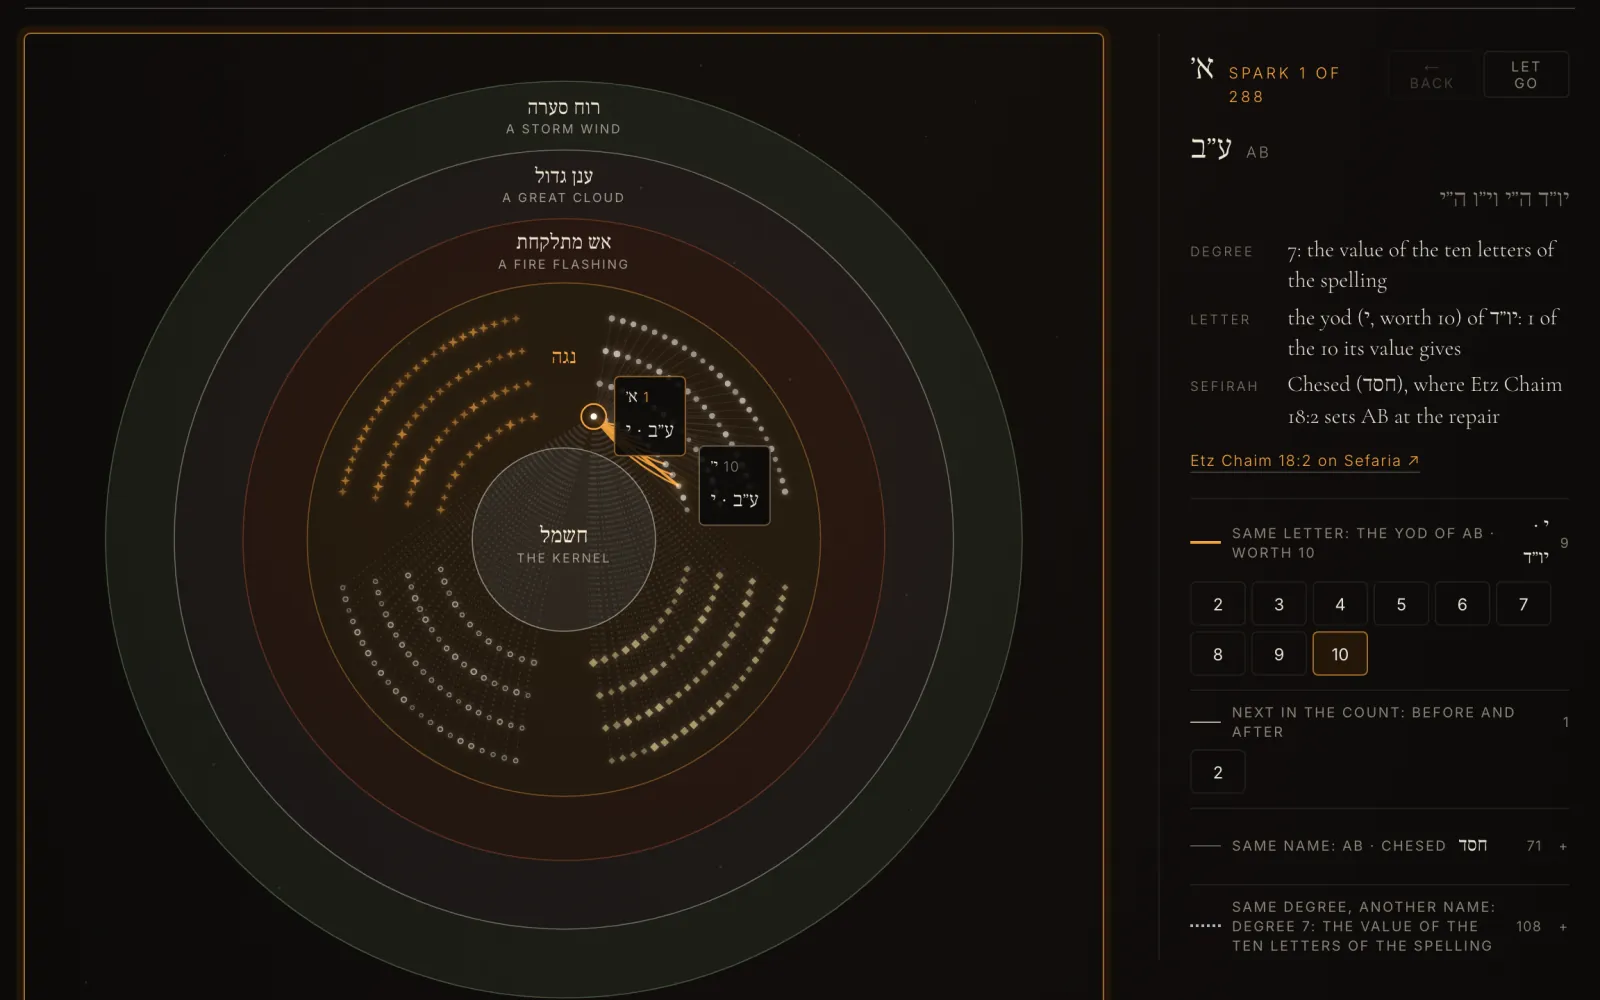
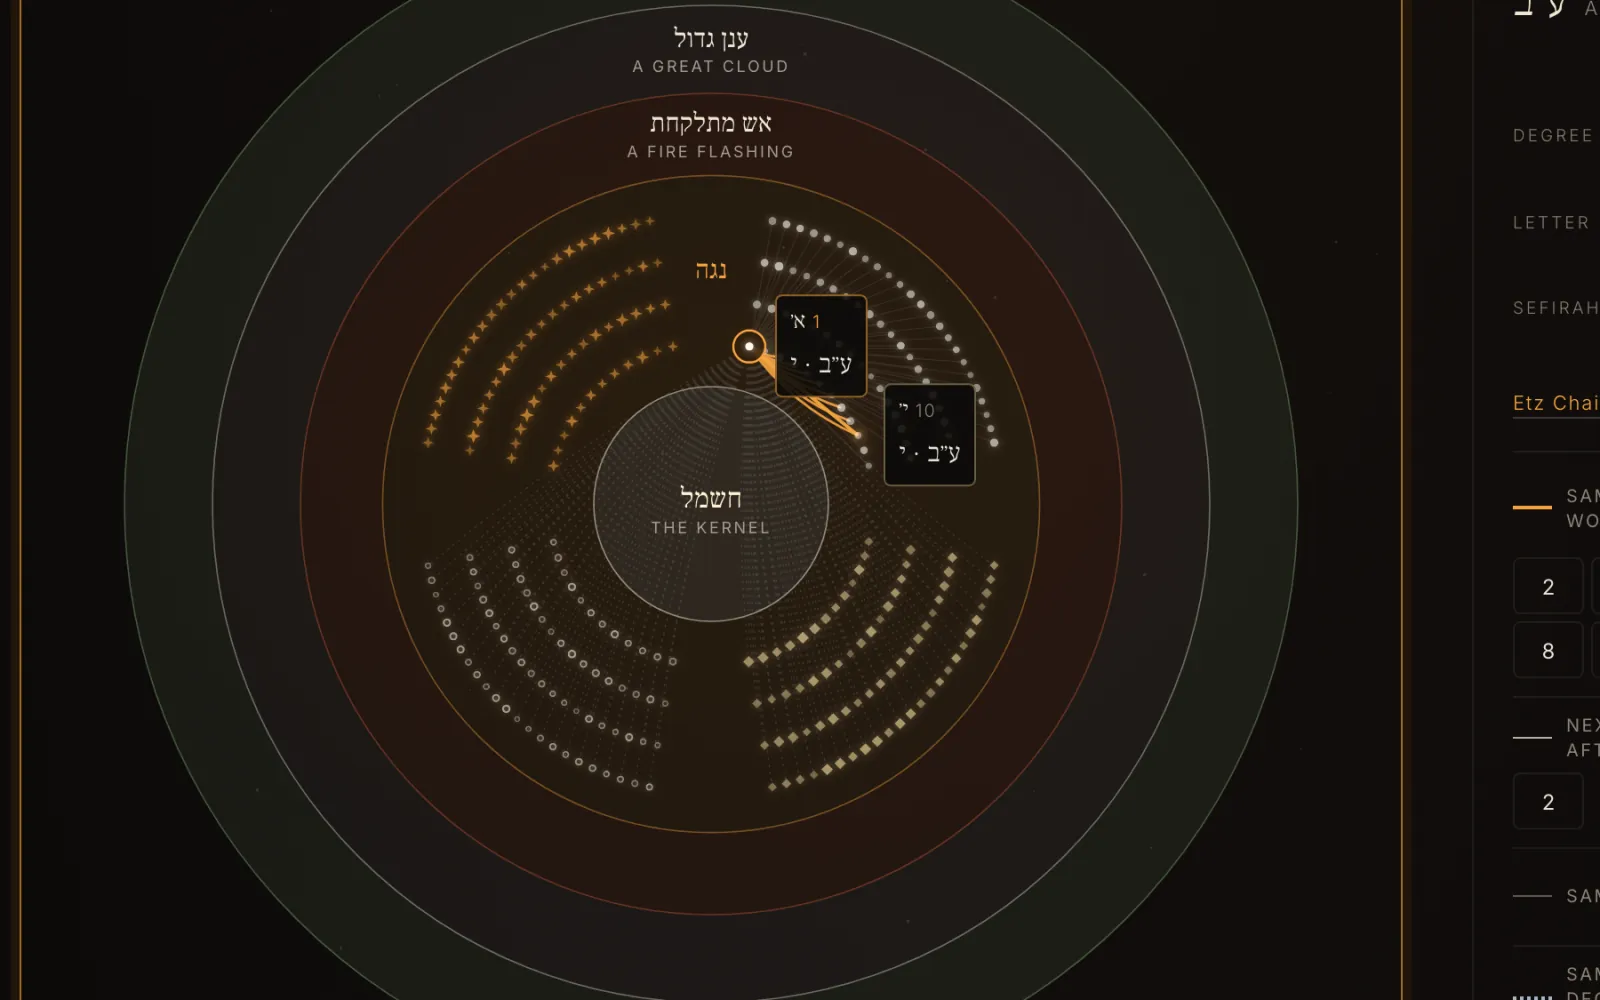
Shevirah: reframe the hub shot and canvas thumbnails, drop an unbacked clause (#42)
- Hub hero: the "Eleven works" heading and the first six work tiles,
  whole, instead of a crop across the bottom of the grid.
- The four work thumbnails are cropped 16:10 around the canvas with
  only a sliver of the side panel, so the field reads at gallery size.
- Drop "every count in the works is computed in code": the shevirah
  README does not say so for The Ten Sefirot.

diff --git a/pages/index.tsx b/pages/index.tsx
@@ -475,28 +475,28 @@ const SHEVIRAH_SHOTS = [
     path: "klippot",
     title: "The Four Shells",
     caption: "The 288 sparks, held in four shells",
-    alt: "The Four Shells: 288 sparks in arcs inside four concentric shells, one spark pinned with its joins drawn and a panel giving its degree, letter and sefirah.",
+    alt: "The Four Shells: sparks in arcs inside concentric shells around the kernel, one spark pinned and its joins drawn and labelled.",
   },
   {
     src: "ten-sefirot",
     path: "tree-of-life",
     title: "The Ten Sefirot",
     caption: "Ten sefirot, Da\u2019at and twenty-two letters",
-    alt: "The Ten Sefirot: the tree of ten lights, Da\u2019at drawn as a ring and the letters on its paths, with Keter pinned and a panel of its sources.",
+    alt: "The Ten Sefirot: the upper tree from Keter to Tiferet, Da\u2019at drawn as a ring and the letters on its paths, with Keter pinned and its joins drawn.",
   },
   {
     src: "taryag",
     path: "mitzvot",
     title: "Taryag: The 613",
     caption: "248 limbs and 365 days",
-    alt: "Taryag: the 613 commandments as points, 248 in an inner disc and 365 in a ring around it, with the first commandment held and its connections listed.",
+    alt: "Taryag: the 613 commandments as points, 248 in an inner disc and 365 in a ring around it, with the first commandment held at the centre.",
   },
   {
     src: "gates",
     path: "gates",
     title: "The 231 Gates",
     caption: "Every pair of letters, on the wheel",
-    alt: "The 231 Gates: twenty-two Hebrew letters around a wheel with a gate at the middle of every chord, the gate alef-dalet pinned and the gates through each of its letters fanned out.",
+    alt: "The 231 Gates: Hebrew letters around a wheel with a gate at the middle of every chord, the gate alef-dalet pinned and the gates through alef and through dalet fanned out.",
   },
   {
     src: "sefat-emet",
@@ -565,8 +565,8 @@ function Shevirah() {
             <li>
               <span className="c-studio__client">Paraphrased from Sefaria</span>
               <span className="c-studio__what">
-                Each text credits the edition and license it was read from, and every count in
-                the works is computed in code. Every Hebrew term links to its page on Gamatria.
+                Each text credits the edition and license it was read from. Every Hebrew term
+                links to its page on Gamatria.
               </span>
             </li>
           </ul>
@@ -579,7 +579,7 @@ function Shevirah() {
             src="hub"
             w={1400}
             h={1306}
-            alt="The Shevirah hub: the last tiles of the eleven works, The Thirteen Attributes and The Fifty Gates, above the shelf of twenty-two texts, each with its author, date and number of teachings."
+            alt="The Shevirah hub\u2019s works grid: the first six of its eleven works as tiles, from The Four Shells and The Ten Sefirot to The Forty-Nine, each with its Hebrew name, emblem and one line on what it holds. The shelf of twenty-two texts follows below, out of frame."
           />
         </a>
       </figure>
